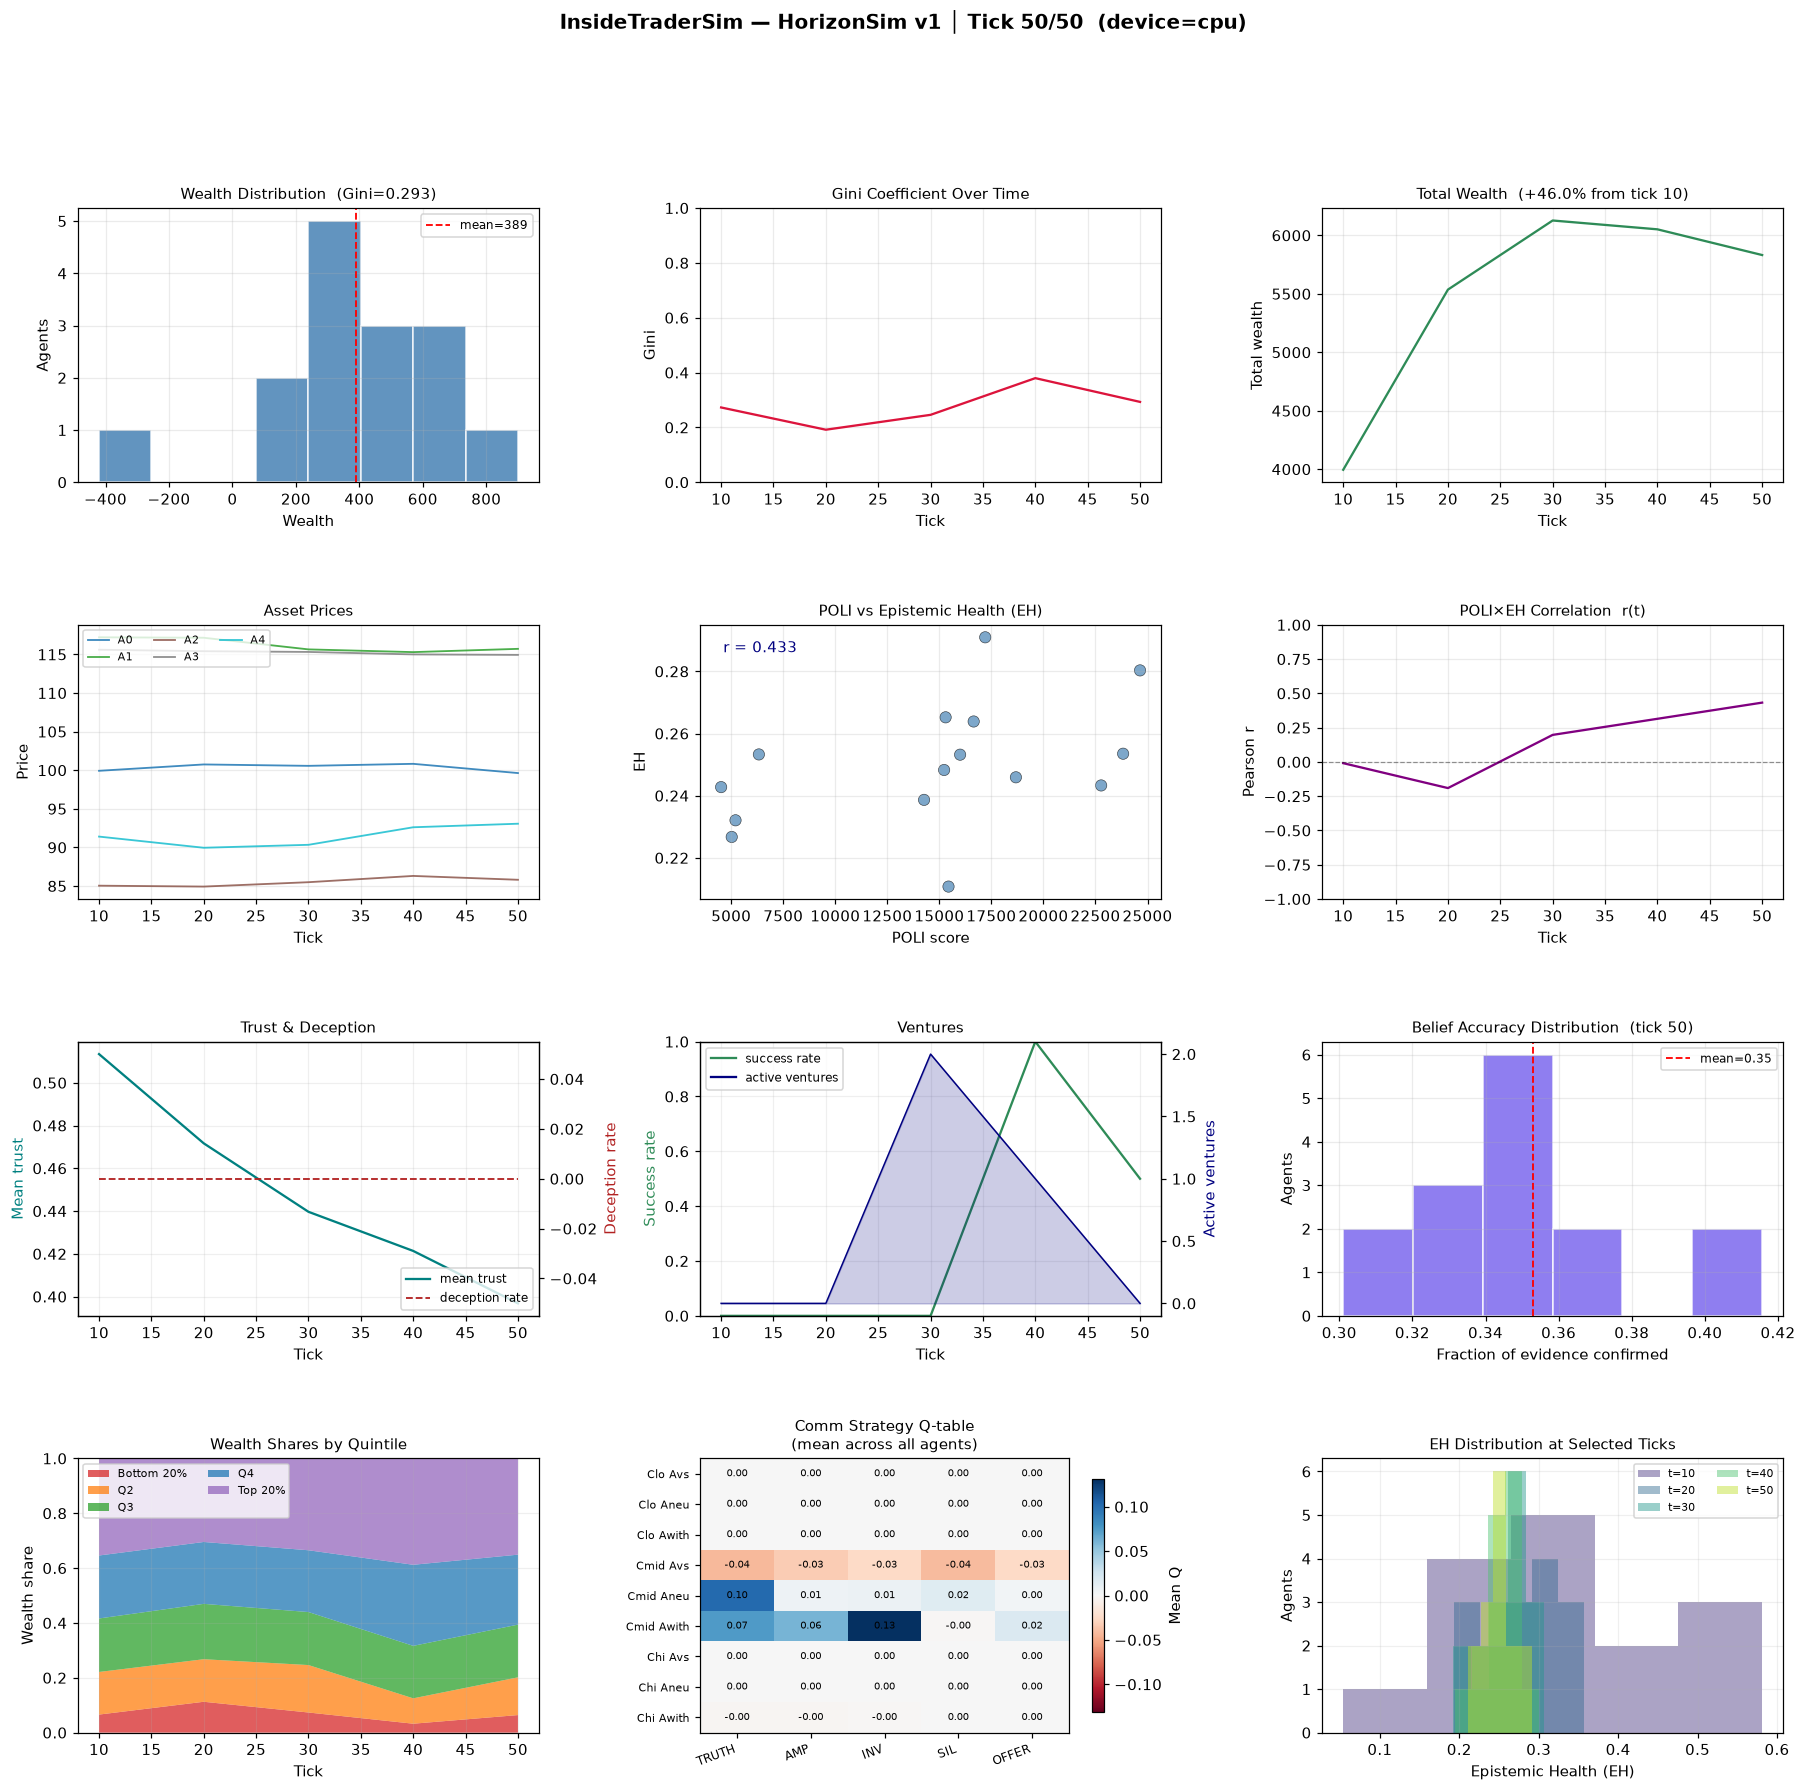
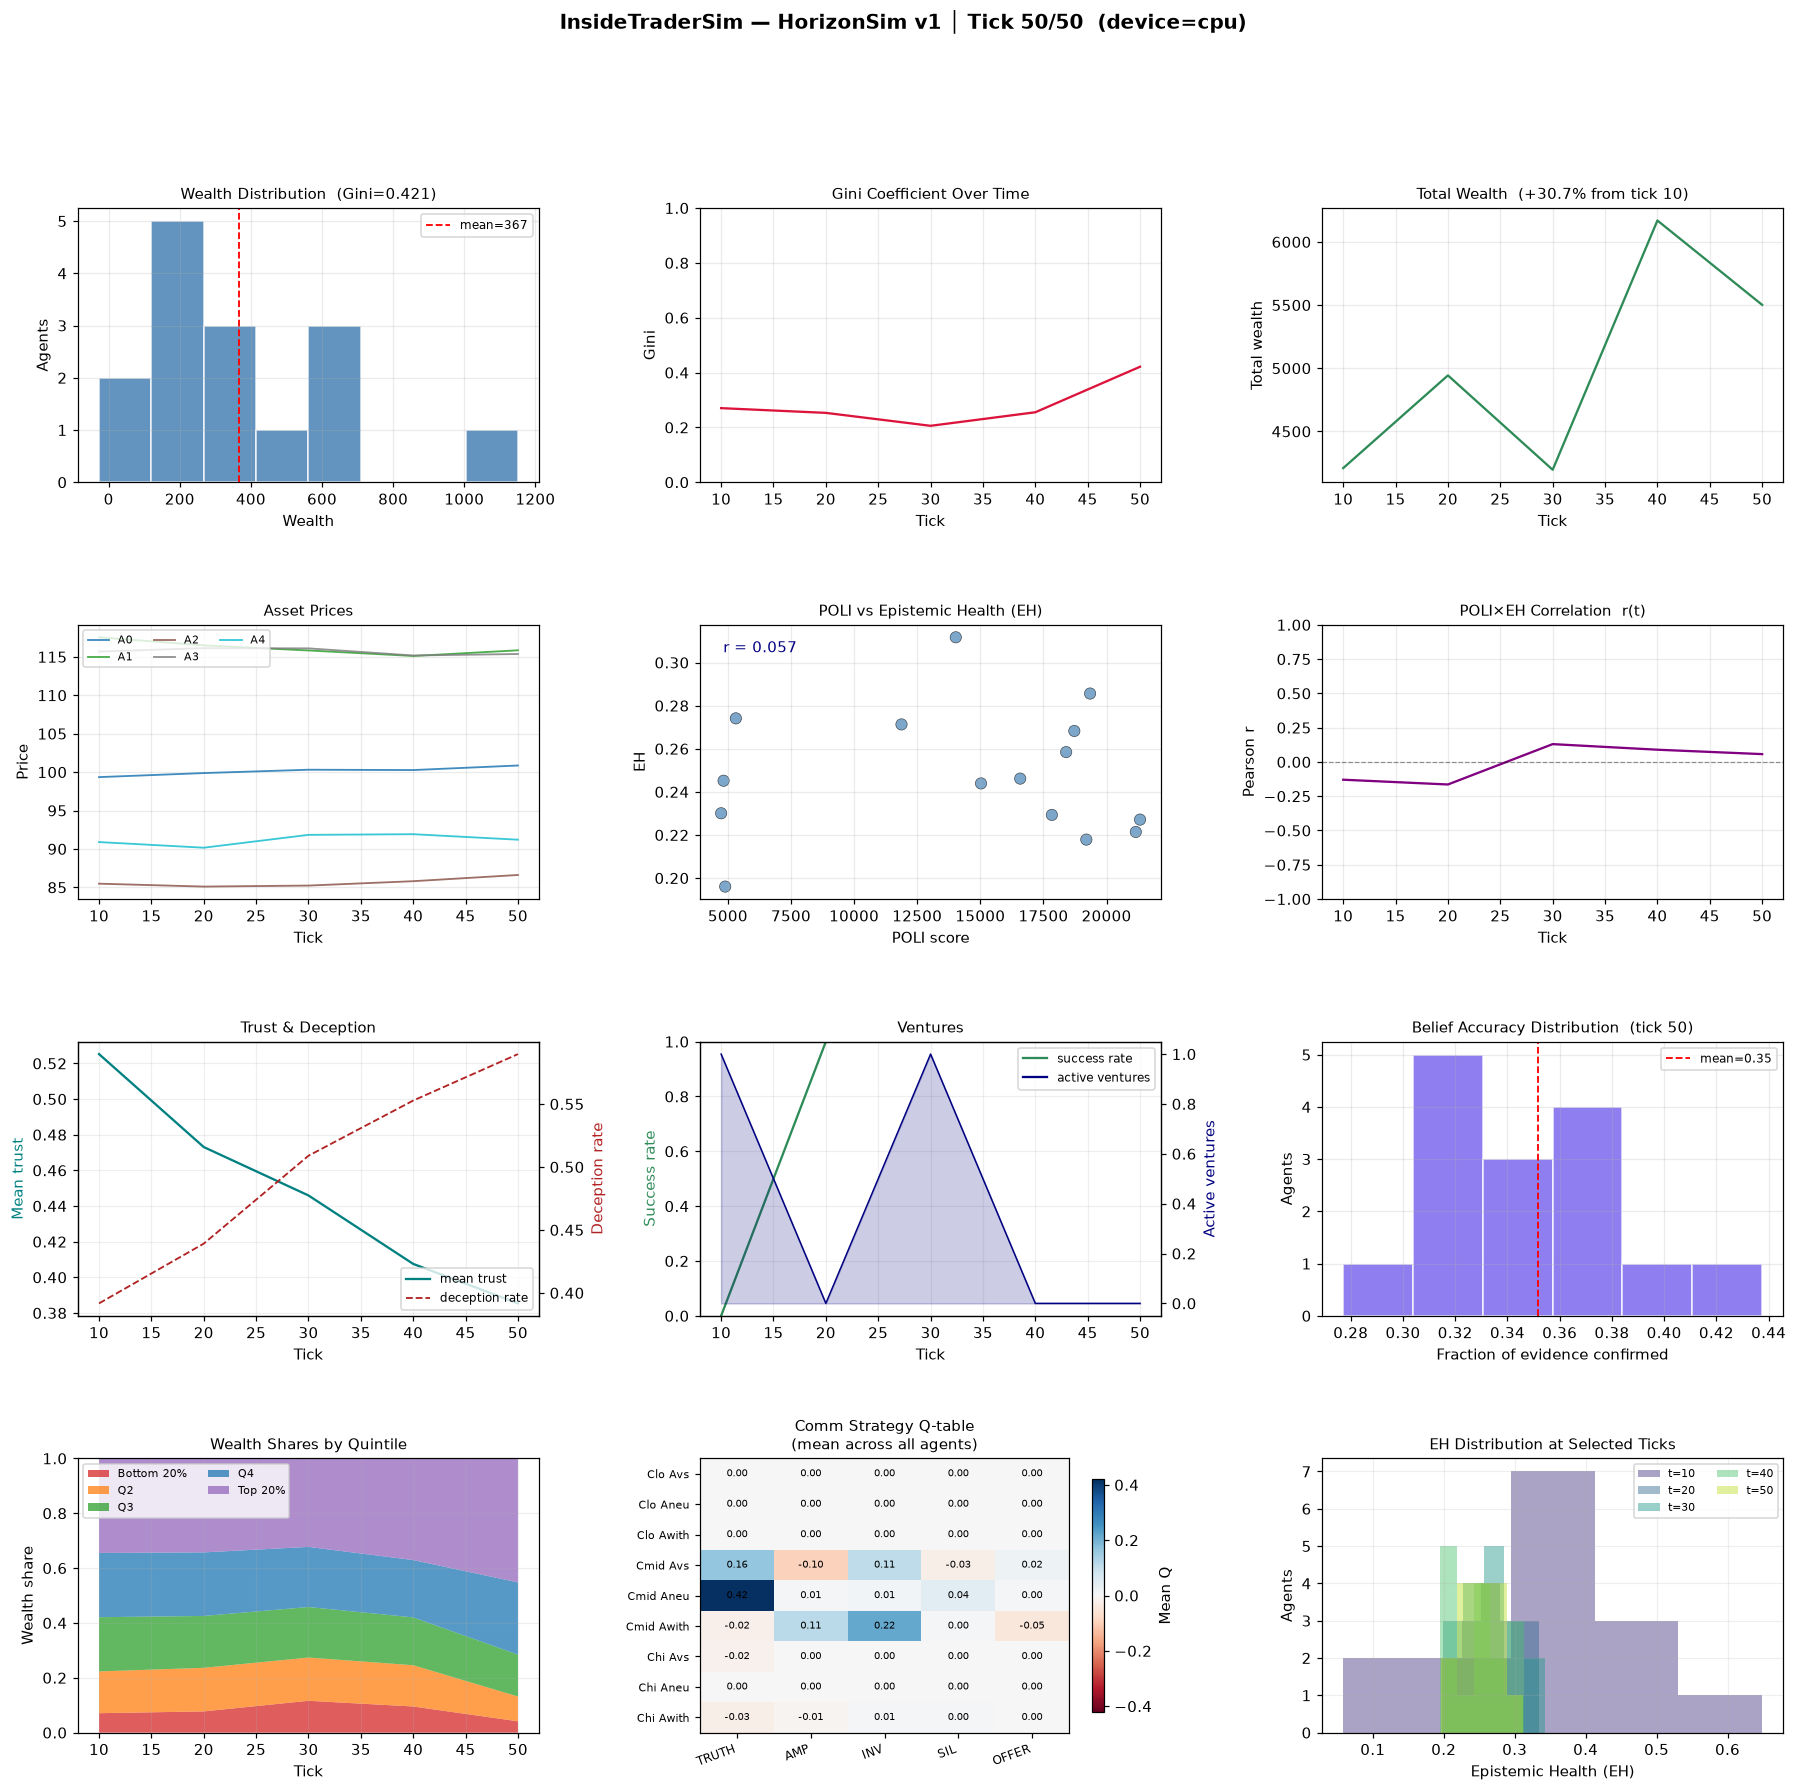
Fix deception_rate metric, add post-training checkpoint, delay comm Q-update
Three changes:

1. deception_rate was always 0.0 due to a logic error in _update_deception_metrics:
   it checked target_tick == current_tick for messages sent this tick, but card
   horizons are always 3-14 ticks out so this condition never fired. Replaced with
   direct tracking of AMPLIFY/INVERT action frequency after the comm round. Metric
   now reflects the fraction of TELL messages that used a deceptive action (~30-40%
   with epsilon=0.5).

2. Post-training checkpoint was never saved after the joint simulation completed.
   run_simulation.py now saves checkpoints/posttrain.json (alongside the existing
   checkpoints/pretrained.json from solo pretraining) so the learned Q-tables and
   credibility scores are available for follow-on analysis or fine-tuning.

3. comm Q-update now uses a 2-tick delay (COMM_Q_DELAY=2). Previously the update
   fired before the receiver's trade executed, missing the downstream price-impact
   benefit. Pending updates are stored in _pending_q_updates keyed by deadline tick
   and applied when that tick's plan_actions runs.

Claude-Session: https://claude.ai/code/session_0119Gzoajyc9GNvam9DXVTiN

diff --git a/inside_traders/agent.py b/inside_traders/agent.py
@@ -96,6 +96,9 @@ class Agent:
         self._prev_reward_signal: float = 0.0
         self._last_comm_state: Optional[Tuple[int, int]] = None
         self._last_comm_action: Optional[int] = None
+        # Delayed Q-updates: key=deadline_tick, value=(s0, s1, a, baseline_reward)
+        # Applied 2 ticks after the comm action so downstream price effects are captured.
+        self._pending_q_updates: Dict[int, Tuple[int, int, int, float]] = {}
         # Outgoing tell tracking for outgoing_accuracy → HI_sus feedback
         self._sent_tells: List[Tuple[str, float, int]] = []
         self._outgoing_confirmed: int = 0
@@ -548,7 +551,7 @@ class Agent:
         # Plain U model: no agency modulation on trading, but comm bias still adapts
         if self.reward_model.name == RewardModelName.U:
             utility = compute_base_utility(self, market_prices)
-            self._update_comm_q(utility)
+            self._update_comm_q(utility, tick)
             return {"trade_scale": 1.0, "venture_scale": 1.0, "info_scale": 1.0}
 
         # Compute agency indices
@@ -572,7 +575,7 @@ class Agent:
 
         utility = compute_base_utility(self, market_prices)
         reward = self.reward_model.compute(utility, agency)
-        self._update_comm_q(reward)
+        self._update_comm_q(reward, tick)
 
         if agency.in_danger_zone:
             # ── Danger zone ────────────────────────────────────────────
@@ -602,24 +605,31 @@ class Agent:
                 "agency": agency,
             }
 
-    def _update_comm_q(self, current_reward: float) -> None:
+    _COMM_Q_DELAY: int = 2  # ticks to wait before applying a comm Q-update
+
+    def _update_comm_q(self, current_reward: float, tick: int = 0) -> None:
         """
         Strategy graph update: adjust weights on (situation, action) pairs.
 
-        Each cell in _comm_q is the weight for one communication strategy
-        in one situation.  The weight of the strategy just used shifts toward
-        the observed reward delta — winning strategies grow heavier, losing
-        ones shrink.  Epsilon controls the mutation rate: early on agents
-        explore freely ('try this'); over time they commit to the highest-
-        weighted strategy in each situation.
+        Uses a 2-tick delayed TD(0) update so the reward signal captures the
+        downstream price impact of the comm action (receiver updates belief →
+        trades → price moves → sender's position value changes) rather than
+        the pre-trade snapshot from the same tick as the action.
         """
-        reward_delta = current_reward - self._prev_reward_signal
+        # Apply any Q-update that is due this tick
+        pending = self._pending_q_updates.pop(tick, None)
+        if pending is not None:
+            s0, s1, a, baseline = pending
+            delayed_delta = current_reward - baseline
+            self._comm_q[s0, s1, a] += 0.1 * (delayed_delta - self._comm_q[s0, s1, a])
+            self._comm_q_visits[s0, s1, a] += 1
+
+        # Schedule Q-update for the action taken THIS tick (fires in DELAY ticks)
         if self._last_comm_state is not None and self._last_comm_action is not None:
             s0, s1 = self._last_comm_state
             a = self._last_comm_action
-            # TD(0): weight ← weight + lr × (observed_delta − current_weight)
-            self._comm_q[s0, s1, a] += 0.1 * (reward_delta - self._comm_q[s0, s1, a])
-            self._comm_q_visits[s0, s1, a] += 1
+            deadline = tick + self._COMM_Q_DELAY
+            self._pending_q_updates[deadline] = (s0, s1, a, self._prev_reward_signal)
 
         # Decay mutation rate only during Phase B (free conflict); frozen in Phase A
         if not self._comm_honest_phase:

diff --git a/inside_traders/simulation.py b/inside_traders/simulation.py
@@ -337,11 +337,19 @@ class Simulation:
                     ]) if msg.proposition_key else 0.0,
                 })
 
+        # ── 3c. Record deception rate: TELL actions that used AMPLIFY/INVERT ─
+        if self.cfg.comm_enabled:
+            for _msg in messages:
+                if _msg.msg_type == MessageType.TELL:
+                    _sender = agent_map.get(_msg.sender)
+                    if _sender is not None:
+                        self.metrics.record_tell(
+                            is_deceptive=_sender._last_comm_action in (1, 2)
+                        )
+
         # ── 4. Evidence resolution + belief updates ───────────────────
         for ag in self.agents:
             ag.resolve_evidence(t, self.world.fundamentals)
-        if self.cfg.comm_enabled:
-            self._update_deception_metrics(messages, agent_map, t)
 
         # ── 5. Compression test ───────────────────────────────────────
         if t == self.cfg.compression_test_start:
@@ -626,24 +634,6 @@ class Simulation:
     # ------------------------------------------------------------------
     # Deception tracking
     # ------------------------------------------------------------------
-
-    def _update_deception_metrics(
-        self, messages: List[Message], agent_map: Dict[str, Agent], tick: int
-    ) -> None:
-        for msg in messages:
-            if msg.msg_type != MessageType.TELL:
-                continue
-            if msg.proposition_key is None or msg.predicted_value is None:
-                continue
-            target_tick = Agent._parse_target_tick(msg.proposition_key)
-            if target_tick is None or target_tick != tick:
-                continue
-            asset_idx = Agent._parse_asset_idx(msg.proposition_key)
-            if asset_idx is None:
-                continue
-            actual = self.world.fundamentals[asset_idx]
-            error_frac = abs(msg.predicted_value - actual) / (abs(actual) + 1e-9)
-            self.metrics.record_tell(was_refuted=error_frac > 0.10)
 
     # ------------------------------------------------------------------
     # Summary helpers

diff --git a/inside_traders/metrics.py b/inside_traders/metrics.py
@@ -23,7 +23,7 @@ class TickSnapshot:
     gini: float
     total_wealth: float
     venture_success_rate: float
-    deception_rate: float          # fraction of TELLs that were later refuted
+    deception_rate: float          # fraction of TELL actions that used AMPLIFY or INVERT
     mean_trust: float              # average credibility across all pairs
     n_active_ventures: int
     asset_prices: np.ndarray
@@ -44,18 +44,19 @@ class MetricsCollector:
         self.snapshots: List[TickSnapshot] = []
         self._venture_resolved: int = 0
         self._venture_succeeded: int = 0
-        self._tell_count: int = 0
-        self._tell_refuted: int = 0
+        self._tells_total: int = 0
+        self._tells_deceptive: int = 0
 
     def record_venture(self, succeeded: bool) -> None:
         self._venture_resolved += 1
         if succeeded:
             self._venture_succeeded += 1
 
-    def record_tell(self, was_refuted: bool) -> None:
-        self._tell_count += 1
-        if was_refuted:
-            self._tell_refuted += 1
+    def record_tell(self, is_deceptive: bool) -> None:
+        """Record a TELL message. is_deceptive=True when action was AMPLIFY or INVERT."""
+        self._tells_total += 1
+        if is_deceptive:
+            self._tells_deceptive += 1
 
     def snapshot(
         self,
@@ -98,8 +99,8 @@ class MetricsCollector:
                 if self._venture_resolved > 0 else 0.0
             ),
             deception_rate=(
-                self._tell_refuted / self._tell_count
-                if self._tell_count > 0 else 0.0
+                self._tells_deceptive / self._tells_total
+                if self._tells_total > 0 else 0.0
             ),
             mean_trust=mean_trust,
             n_active_ventures=len(active_ventures),

diff --git a/run_simulation.py b/run_simulation.py
@@ -252,6 +252,14 @@ def main() -> None:
     sim.run()
     elapsed = time.perf_counter() - t0
 
+    # Save post-training checkpoint so learned Q-tables and credibility scores
+    # can be loaded for subsequent fine-tuning or analysis runs.
+    from inside_traders.checkpoint import save_checkpoint
+    posttrain_path = os.path.join(args.checkpoint_dir, "posttrain.json")
+    os.makedirs(args.checkpoint_dir, exist_ok=True)
+    save_checkpoint(sim.agents, posttrain_path)
+    print(f"\n  Post-training checkpoint saved to {posttrain_path}")
+
     print_summary(sim)
 
     if not args.no_plots:
